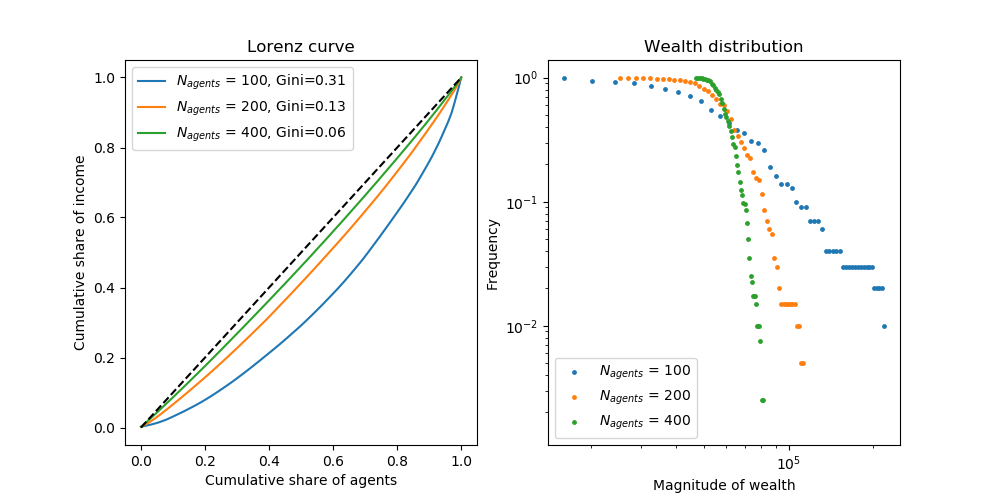
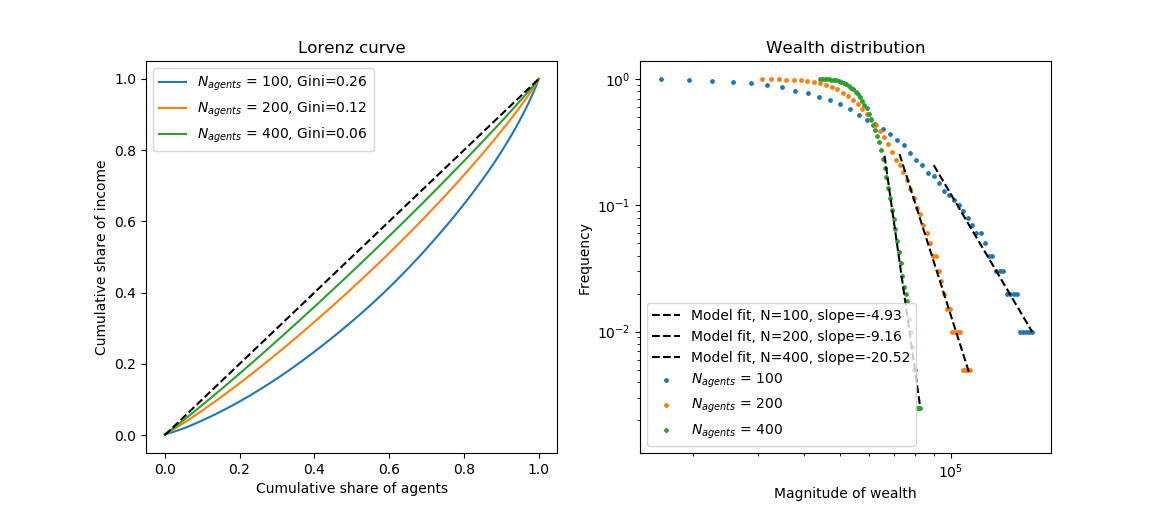
Plaatjes geupdate

diff --git a/visualization.py b/visualization.py
@@ -6,22 +6,31 @@ from data import calc_norm_return, create_cdf, curve_fit_log, sample_gauss, SP50
 import management
 from scipy.optimize import curve_fit
 
-def vis_market_cross(MarketObj):
+def vis_market_cross(MarketObj, transaction_q):
     # buy_p = [buyer.b for buyer in MarketObj.buyers]
     # buy_q = [buyer.a_b for buyer in MarketObj.buyers]
     # sell_p = [seller.s for seller in MarketObj.sellers]
     # sell_q = [seller.a_s for seller in MarketObj.sellers]
 
-    sorted_sell = sorted(MarketObj.sellers, key=lambda x: x.s_i)
-    sorted_buy = sorted(MarketObj.buyers, key=lambda x: x.b_i)[::-1]
+    sorted_sell = sorted(MarketObj.sellers, key=lambda x: x.s_i)[10:-10]
+    sorted_buy = sorted(MarketObj.buyers, key=lambda x: x.b_i)[::-1][10:-10]
+
+    print(sorted_sell)
+    print(sorted_buy)
 
     p_sell = [i.s_i for i in sorted_sell] # sorted list of sell price limits
     q_sell = np.cumsum([i.a_s for i in sorted_sell])
     p_buy = [i.b_i for i in sorted_buy] # sorted list of buy price limits
     q_buy = np.cumsum([i.a_b for i in sorted_buy])
 
+    demand = np.polyfit(q_buy, p_buy, deg=1)
+    supply = np.polyfit(q_sell, p_sell, deg=1)
+
+    demand = np.poly1d(demand)
+    supply = np.poly1d(supply)
+
     #sets = [[p_sell, q_sell], [p_buy, q_buy]]
-    #p_clearing = Intersection(sets)
+    # p_clearing = Intersection(sets)
     #print(f'Intersection: {p_clearing}')
     #pprint(vars(p_clearing))
 
@@ -63,31 +72,38 @@ def vis_market_cross(MarketObj):
     # plt.legend(loc='best')
     # plt.show()
 
+    X = np.arange(np.average(q_sell) - 2000, np.average(q_sell) + 2000)
+
     plt.figure()
-    plt.scatter(combined_sell[1], combined_sell[0], label='Sell')
-    plt.scatter(combined_buy[1],combined_buy[0], label='Buy')
+    plt.scatter(q_sell, p_sell, label='Sell')
+    plt.plot(X, supply(X))
+    plt.scatter(q_buy, p_buy, label='Buy')
+    plt.plot(X, demand(X))
+    # plt.scatter(transaction_q, MarketObj.p[-1], color='red', alpha=0.2)
     plt.ylabel('Price ($)')
     plt.xlabel('Cumulative Quantity of Stock')
     plt.legend(loc='best')
+    plt.xlabel('Quantity')
+    plt.ylabel('Price')
     plt.show()
 
-    import sys
+    # import sys
 
-    fig = plt.figure()
-    ax = fig.add_subplot(111)
+    # fig = plt.figure()
+    # ax = fig.add_subplot(111)
 
-    # x1 = [1,2,3,4,5,6,7,8]
-    # y1 = [20,100,50,120,55,240,50,25]
-    # x2 = [3,4,5,6,7,8,9]
-    # y2 = [25,200,14,67,88,44,120]
+    # # x1 = [1,2,3,4,5,6,7,8]
+    # # y1 = [20,100,50,120,55,240,50,25]
+    # # x2 = [3,4,5,6,7,8,9]
+    # # y2 = [25,200,14,67,88,44,120]
 
-    x1=list(combined_buy[1])
-    y1=list(combined_buy[0])
-    x2=list(combined_sell[1])
-    y2=list(combined_sell[0])
+    # x1=list(combined_buy[1])
+    # y1=list(combined_buy[0])
+    # x2=list(combined_sell[1])
+    # y2=list(combined_sell[0])
 
-    ax.plot(x1, y1, color='lightblue',linewidth=3, marker='s')
-    ax.plot(x2, y2, color='darkgreen', marker='^')
+    # ax.plot(x1, y1, color='lightblue',linewidth=3, marker='s')
+    # ax.plot(x2, y2, color='darkgreen', marker='^')
 
 
 def vis_price_series(objects, N_time, N_agents, image_dir = None):
@@ -421,6 +437,33 @@ def plot_wealth_dist(MarketObj):
     cdf, bins_count = create_cdf(df)
 
     # Fit power law
+    model_array = np.array((cdf, bins_count[1:]))
+    fit_comparison_array = np.zeros((len(bins_count), 5))
+
+    best_fit_array = np.zeros(5)
+
+    for i in range(1, len(bins_count)-1):
+
+        x_values = np.log10(model_array[1,i:])
+        y_values = np.log10(model_array[0,i:])
+
+        fit_comparison_array[i-1, 0] = x_values[0] # starting x_value for fit
+        fit_comparison_array[i-1, 1] = x_values[-1] # final x_value for fit
+        fit_comparison_array[i-1, 2:4] = np.polynomial.polynomial.polyfit(x_values, y_values, deg=1) # fit line
+        correlation_matrix = np.corrcoef(x_values, y_values)
+        correlation_xy = correlation_matrix[0,1]
+        rsquared = correlation_xy**2
+        fit_comparison_array[i-1, 4] = correlation_xy**2 # add R^2 value to array
+
+    best_fit_array[0] = fit_comparison_array[np.nanargmax(fit_comparison_array[:,4]), 0] # starting x herd
+    best_fit_array[1] = fit_comparison_array[np.nanargmax(fit_comparison_array[:,4]), 1] # final x herd
+    best_fit_array[2] = fit_comparison_array[np.nanargmax(fit_comparison_array[:,4]), 2] # intercept herd
+    best_fit_array[3] = fit_comparison_array[np.nanargmax(fit_comparison_array[:,4]), 3] # slope herd
+
+    plt.plot([10**best_fit_array[0], 10**best_fit_array[1]], 
+                [10**(best_fit_array[2]+best_fit_array[3]*best_fit_array[0]), 
+                10**(best_fit_array[2]+best_fit_array[3]*best_fit_array[1])], 
+                color='black', linestyle='--', label=f'Model fit, slope={round(best_fit_array[3],2)}')
 
     plt.scatter(bins_count[1:], cdf, s=6)
     plt.title('Wealth distribution after 10000 steps')
@@ -432,26 +475,37 @@ def plot_wealth_dist(MarketObj):
 
 
 
-def plot_lorenz_curve(MarketObj, image_dir=None):
+def plot_lorenz_curve(objects, image_dir=None):
     """
     Plots the Lorenz curve
     """
-    N_time = len(MarketObj.p)
-    # all_t = [int(0.1*N_time), int(0.5*N_time), N_time]
-    all_t = [1000, 5000, 10000]
-
     fig, [ax1, ax2] = plt.subplots(1, 2, figsize=(10,5))
 
+    all_t = [1000, 5000, 10000]
+
+    all_sorted_wealth = {t:[] for t in all_t}
+    all_cum_wealth = {t:[] for t in all_t}
+
+    
+    # N_time = len(MarketObj[0].p)
+    # all_t = [int(0.1*N_time), int(0.5*N_time), N_time]
+    
+
     for t in all_t:
-        print(t)
-        # Compute Lorenz curve and Gini coefficient
-        print(len(MarketObj.p))
+        for MarketObj in objects:
+            # Compute Lorenz curve and Gini coefficient
+            sorted_wealth = sorted(MarketObj.traders, key=lambda x: x.A[t-1]*MarketObj.p[t-1] + x.C[t-1])
+            sorted_wealth = [i.A[t-1]*MarketObj.p[t-1] + i.C[t-1] for i in sorted_wealth]
+            cum_wealth = np.cumsum(sorted_wealth)
 
-        sorted_wealth = sorted(MarketObj.traders, key=lambda x: x.A[t-1]*MarketObj.p[t-1] + x.C[t-1])
-        sorted_wealth = [i.A[t-1]*MarketObj.p[t-1] + i.C[t-1] for i in sorted_wealth]
-        cum_wealth = np.cumsum(sorted_wealth)
+            all_sorted_wealth[t] += [sorted_wealth]
+            all_cum_wealth[t] += [cum_wealth]
 
-        print(cum_wealth)
+        sorted_wealth = np.average(all_sorted_wealth[t], axis=0)
+        cum_wealth = np.average(all_cum_wealth[t], axis=0)
+
+        # print(sorted_wealth)
+        # print(cum_wealth)
 
         X = np.linspace(0, 1, len(MarketObj.traders))
         G = np.abs(1 - sum([(X[i+1]-X[i])*(cum_wealth[i+1]/sum(sorted_wealth)+cum_wealth[i]/sum(sorted_wealth))
@@ -462,6 +516,46 @@ def plot_lorenz_curve(MarketObj, image_dir=None):
         # Determine distribution of wealth
         df = pd.DataFrame(sorted_wealth)
         cdf, bins_count = create_cdf(df)
+
+        model_array = np.array((cdf, bins_count[1:]))
+        fit_comparison_array = np.zeros((len(bins_count), 5))
+
+        best_fit_array = np.zeros(5)
+
+        # print(len(cdf), len(bins_count))
+
+        j = 0
+
+        for i in range(1, len(bins_count)-1):
+
+            # x_values = np.log10(np.delete(model_array[1], np.where(model_array[1] < j)))
+            # y_values = np.log10(np.delete(model_array[0], np.where(model_array[1] < j)))
+            x_values = np.log10(model_array[1,i:])
+            y_values = np.log10(model_array[0,i:])
+
+            # print('y0', y_values[0])
+
+            fit_comparison_array[i-1, 0] = x_values[0] # starting x_value for fit
+            fit_comparison_array[i-1, 1] = x_values[-1] # final x_value for fit
+            fit_comparison_array[i-1, 2:4] = np.polynomial.polynomial.polyfit(x_values, y_values, deg=1) # fit line
+            correlation_matrix = np.corrcoef(x_values, y_values)
+            correlation_xy = correlation_matrix[0,1]
+            rsquared = correlation_xy**2
+            fit_comparison_array[i-1, 4] = correlation_xy**2 # add R^2 value to array
+            # j = j + 0.01
+
+        # print(fit_comparison_array)
+
+        # print(f'Slope for best fit Gaus: {fit_comparison_array[np.argmax(fit_comparison_array[:,4]), 3]}')
+        best_fit_array[0] = fit_comparison_array[np.nanargmax(fit_comparison_array[:,4]), 0] # starting x herd
+        best_fit_array[1] = fit_comparison_array[np.nanargmax(fit_comparison_array[:,4]), 1] # final x herd
+        best_fit_array[2] = fit_comparison_array[np.nanargmax(fit_comparison_array[:,4]), 2] # intercept herd
+        best_fit_array[3] = fit_comparison_array[np.nanargmax(fit_comparison_array[:,4]), 3] # slope herd
+
+        ax2.plot([10**best_fit_array[0], 10**best_fit_array[1]], 
+                 [10**(best_fit_array[2]+best_fit_array[3]*best_fit_array[0]), 
+                 10**(best_fit_array[2]+best_fit_array[3]*best_fit_array[1])], 
+                 color='black', linestyle='--', label=f'Model fit, t={t}, slope={round(best_fit_array[3],2)}')
         ax2.scatter(bins_count[1:], cdf, label=f't={t}', s=6)
 
     ax1.plot([0,1], [0,1], linestyle='--', color='black')
@@ -485,12 +579,15 @@ def plot_lorenz_curve(MarketObj, image_dir=None):
     plt.show()
 
 
-def plot_lorenz_curve_Nagents(objects, image_dir=None):
+def plot_lorenz_curve_Nagents(objects, all_N_agents, image_dir=None):
     """
     Plots the Lorenz curve
     """
     
     fig, [ax1, ax2] = plt.subplots(1, 2, figsize=(10,5))
+
+    all_sorted_wealth = {n:[] for n in all_N_agents}
+    all_cum_wealth = {n:[] for n in all_N_agents}
 
     for MarketObj in objects:
         
@@ -501,17 +598,61 @@ def plot_lorenz_curve_Nagents(objects, image_dir=None):
         sorted_wealth = [i.A[-1]*MarketObj.p[-1] + i.C[-1] for i in sorted_wealth]
         cum_wealth = np.cumsum(sorted_wealth)
 
-        # print(cum_wealth)
+        all_sorted_wealth[N_agents] += [sorted_wealth]
+        all_cum_wealth[N_agents] += [cum_wealth]
 
-        X = np.linspace(0, 1, len(MarketObj.traders))
+    for N_agents in all_N_agents:
+
+        sorted_wealth = np.average(all_sorted_wealth[N_agents], axis=0)
+        cum_wealth = np.average(all_cum_wealth[N_agents], axis=0)
+
+        # print(cum_wealth)
+        X = np.linspace(0, 1, N_agents)
         G = np.abs(1 - sum([(X[i+1]-X[i])*(cum_wealth[i+1]/sum(sorted_wealth)+cum_wealth[i]/sum(sorted_wealth))
-                            for i in range(len(MarketObj.traders)-1)]))
+                            for i in range(N_agents-1)]))
 
         ax1.plot(np.linspace(0,1,N_agents), cum_wealth/sum(sorted_wealth), label='$N_{agents}$ = '+str(N_agents)+', Gini='+str(round(G,2)))
 
         # Determine distribution of wealth
         df = pd.DataFrame(sorted_wealth)
         cdf, bins_count = create_cdf(df)
+
+        model_array = np.array((cdf, bins_count[1:]))
+        fit_comparison_array = np.zeros((len(bins_count), 5))
+
+        best_fit_array = np.zeros(5)
+
+        for i in range(1, len(bins_count)-1):
+
+            # x_values = np.log10(np.delete(model_array[1], np.where(model_array[1] < j)))
+            # y_values = np.log10(np.delete(model_array[0], np.where(model_array[1] < j)))
+            x_values = np.log10(model_array[1,i:])
+            y_values = np.log10(model_array[0,i:])
+
+            # print('y0', y_values[0])
+
+            fit_comparison_array[i-1, 0] = x_values[0] # starting x_value for fit
+            fit_comparison_array[i-1, 1] = x_values[-1] # final x_value for fit
+            fit_comparison_array[i-1, 2:4] = np.polynomial.polynomial.polyfit(x_values, y_values, deg=1) # fit line
+            correlation_matrix = np.corrcoef(x_values, y_values)
+            correlation_xy = correlation_matrix[0,1]
+            rsquared = correlation_xy**2
+            fit_comparison_array[i-1, 4] = correlation_xy**2 # add R^2 value to array
+            # j = j + 0.01
+
+        # print(fit_comparison_array)
+
+        # print(f'Slope for best fit Gaus: {fit_comparison_array[np.argmax(fit_comparison_array[:,4]), 3]}')
+        best_fit_array[0] = fit_comparison_array[np.nanargmax(fit_comparison_array[:,4]), 0] # starting x herd
+        best_fit_array[1] = fit_comparison_array[np.nanargmax(fit_comparison_array[:,4]), 1] # final x herd
+        best_fit_array[2] = fit_comparison_array[np.nanargmax(fit_comparison_array[:,4]), 2] # intercept herd
+        best_fit_array[3] = fit_comparison_array[np.nanargmax(fit_comparison_array[:,4]), 3] # slope herd
+
+        ax2.plot([10**best_fit_array[0], 10**best_fit_array[1]], 
+                 [10**(best_fit_array[2]+best_fit_array[3]*best_fit_array[0]), 
+                 10**(best_fit_array[2]+best_fit_array[3]*best_fit_array[1])], 
+                 color='black', linestyle='--', label=f'Model fit, N={N_agents}, slope={round(best_fit_array[3],2)}')
+
         ax2.scatter(bins_count[1:], cdf, label='$N_{agents}$ = '+str(N_agents), s=6)
 
     ax1.plot([0,1], [0,1], linestyle='--', color='black')

diff --git a/main.py b/main.py
@@ -45,13 +45,17 @@ def run_simulation(N_time, MarketObj, cluster):
         avg_degree(MarketObj, cluster)
 
         transaction_q, true_sellers, true_buyers = MarketObj.get_equilibrium_p()
+
+        # vis.vis_market_cross(MarketObj, transaction_q)
+
         MarketObj.perform_transactions(transaction_q, true_sellers, true_buyers)
         MarketObj.update_hist_vol()
 
         if cluster and activated_cluster != None:
             activated_cluster.self_destruct()
         # print(MarketObj.clusters)
-        # vis.vis_market_cross(MarketObj)
+
+        
 
     #vis.cluster_vis(MarketObj, N_time, cluster)
     #vis.vis_price_series(MarketObj, N_time)
@@ -131,10 +135,28 @@ if __name__ == '__main__':
     #     np.random.seed(seed)
 
 
-    # FOR VIS OF LORENZ, CAN BE DELETED LATER
+    # FOR VIS OF LORENZ OVER TIME, CAN BE DELETED LATER
     # for cluster in [True, False]:
+    # objects = []
+    # for i in range(10):
+    # # for N_agents in [100, 200, 400]:
+    #     for cluster in [True]:
+
+    #         MarketObj = initialise(N_agents, p, A, C, cluster, garch, garch_param, Pa_list[1], Pc_list[0])
+    #         run_simulation(N_time, MarketObj, cluster)
+    #         # Objects.append((MarketObj, cluster))
+    #     # if cluster:
+    #         # vis.cluster_vis(MarketObj, N_time, cluster)
+    #         # vis.plot_wealth_dist(MarketObj)
+    #         objects += [MarketObj]
+    # vis.plot_lorenz_curve(objects)
+    # vis.plot_lorenz_curve_Nagents(objects)
+
+    # FOR VIS OF LORENZ FOR DIFFERENT AMOUNTS, CAN BE DELETED LATER
+    # all_N_agents = [100, 200, 400]
     objects = []
-    for N_agents in [100, 200, 400]:
+    for i in range(10):
+        # for N_agents in all_N_agents:
         for cluster in [True]:
 
             MarketObj = initialise(N_agents, p, A, C, cluster, garch, garch_param, Pa_list[1], Pc_list[0])
@@ -142,9 +164,9 @@ if __name__ == '__main__':
             # Objects.append((MarketObj, cluster))
         # if cluster:
             # vis.cluster_vis(MarketObj, N_time, cluster)
-            # vis.plot_wealth_dist(MarketObj)
+            vis.plot_wealth_dist(MarketObj)
             objects += [MarketObj]
-    vis.plot_lorenz_curve_Nagents(objects)
+    # vis.plot_lorenz_curve_Nagents(objects, all_N_agents)
 
 
     # vis.vis_vol_cluster(Objects, 0.2, 10, N_time)

diff --git a/market.py b/market.py
@@ -301,10 +301,12 @@ class Market():
         # q = np.arange(q_intersection+4000)
         # plt.plot(q, buypol(q), label='buy', color='red')
         # plt.plot(q, sellpol(q), label='sell', color='blue')
-        # plt.scatter(combined_buy[1], combined_buy[0], color='red')
-        # plt.scatter(combined_sell[1], combined_sell[0], color='blue')
+        # plt.scatter(q_buy, p_buy, color='red')
+        # plt.scatter(q_sell, p_sell, color='blue')
         # plt.scatter(q_intersection, p_intersection, color='black')
         # plt.legend()
+        # plt.xlabel('Quantity')
+        # plt.ylabel('Price')
         # plt.show()
 
         if q_intersection[0] <= 0 or p_intersection <= 0:
